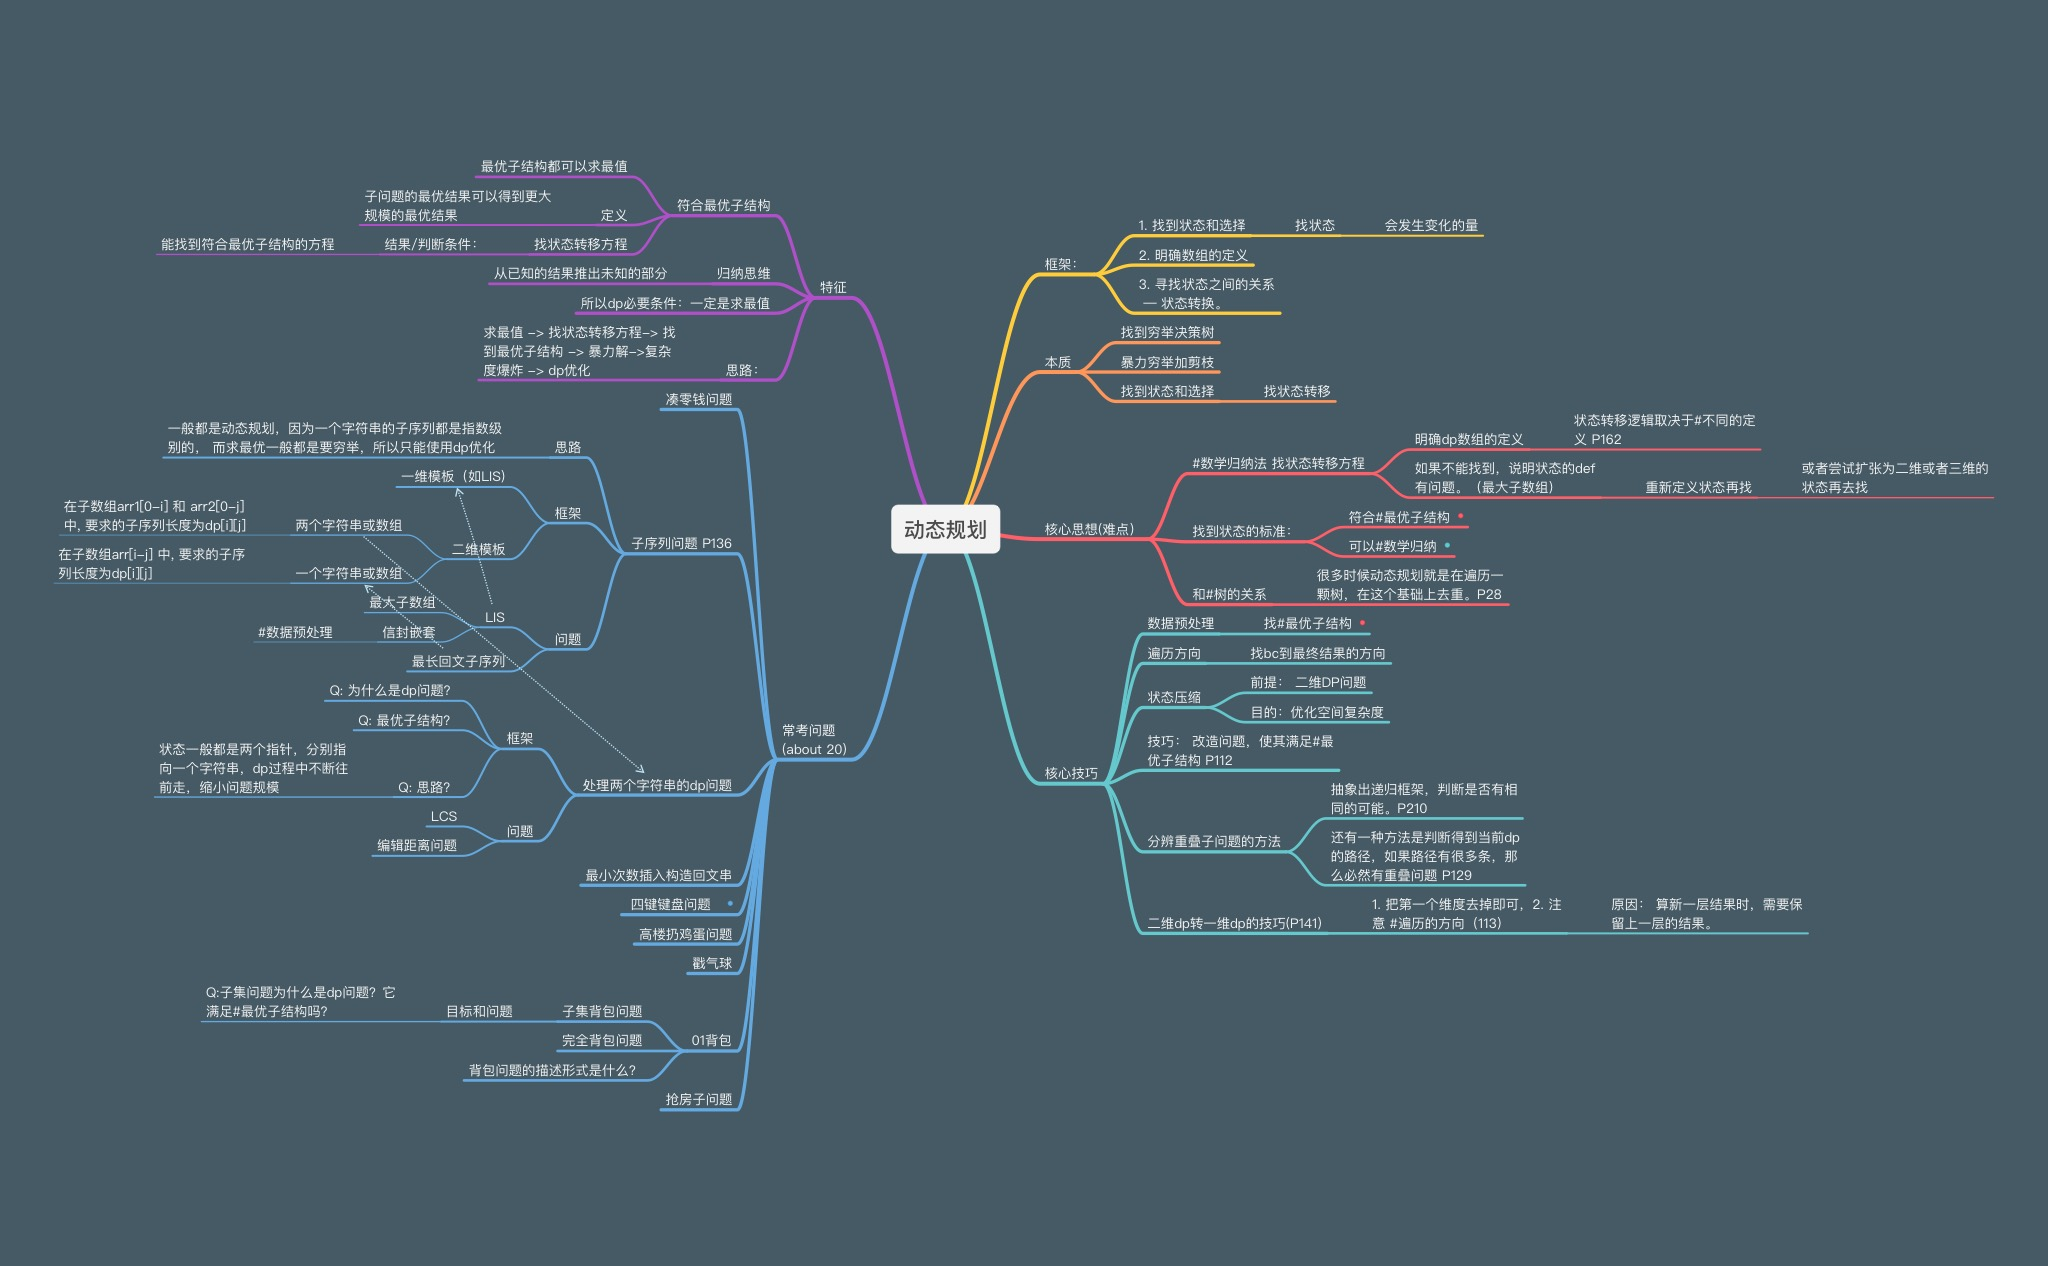
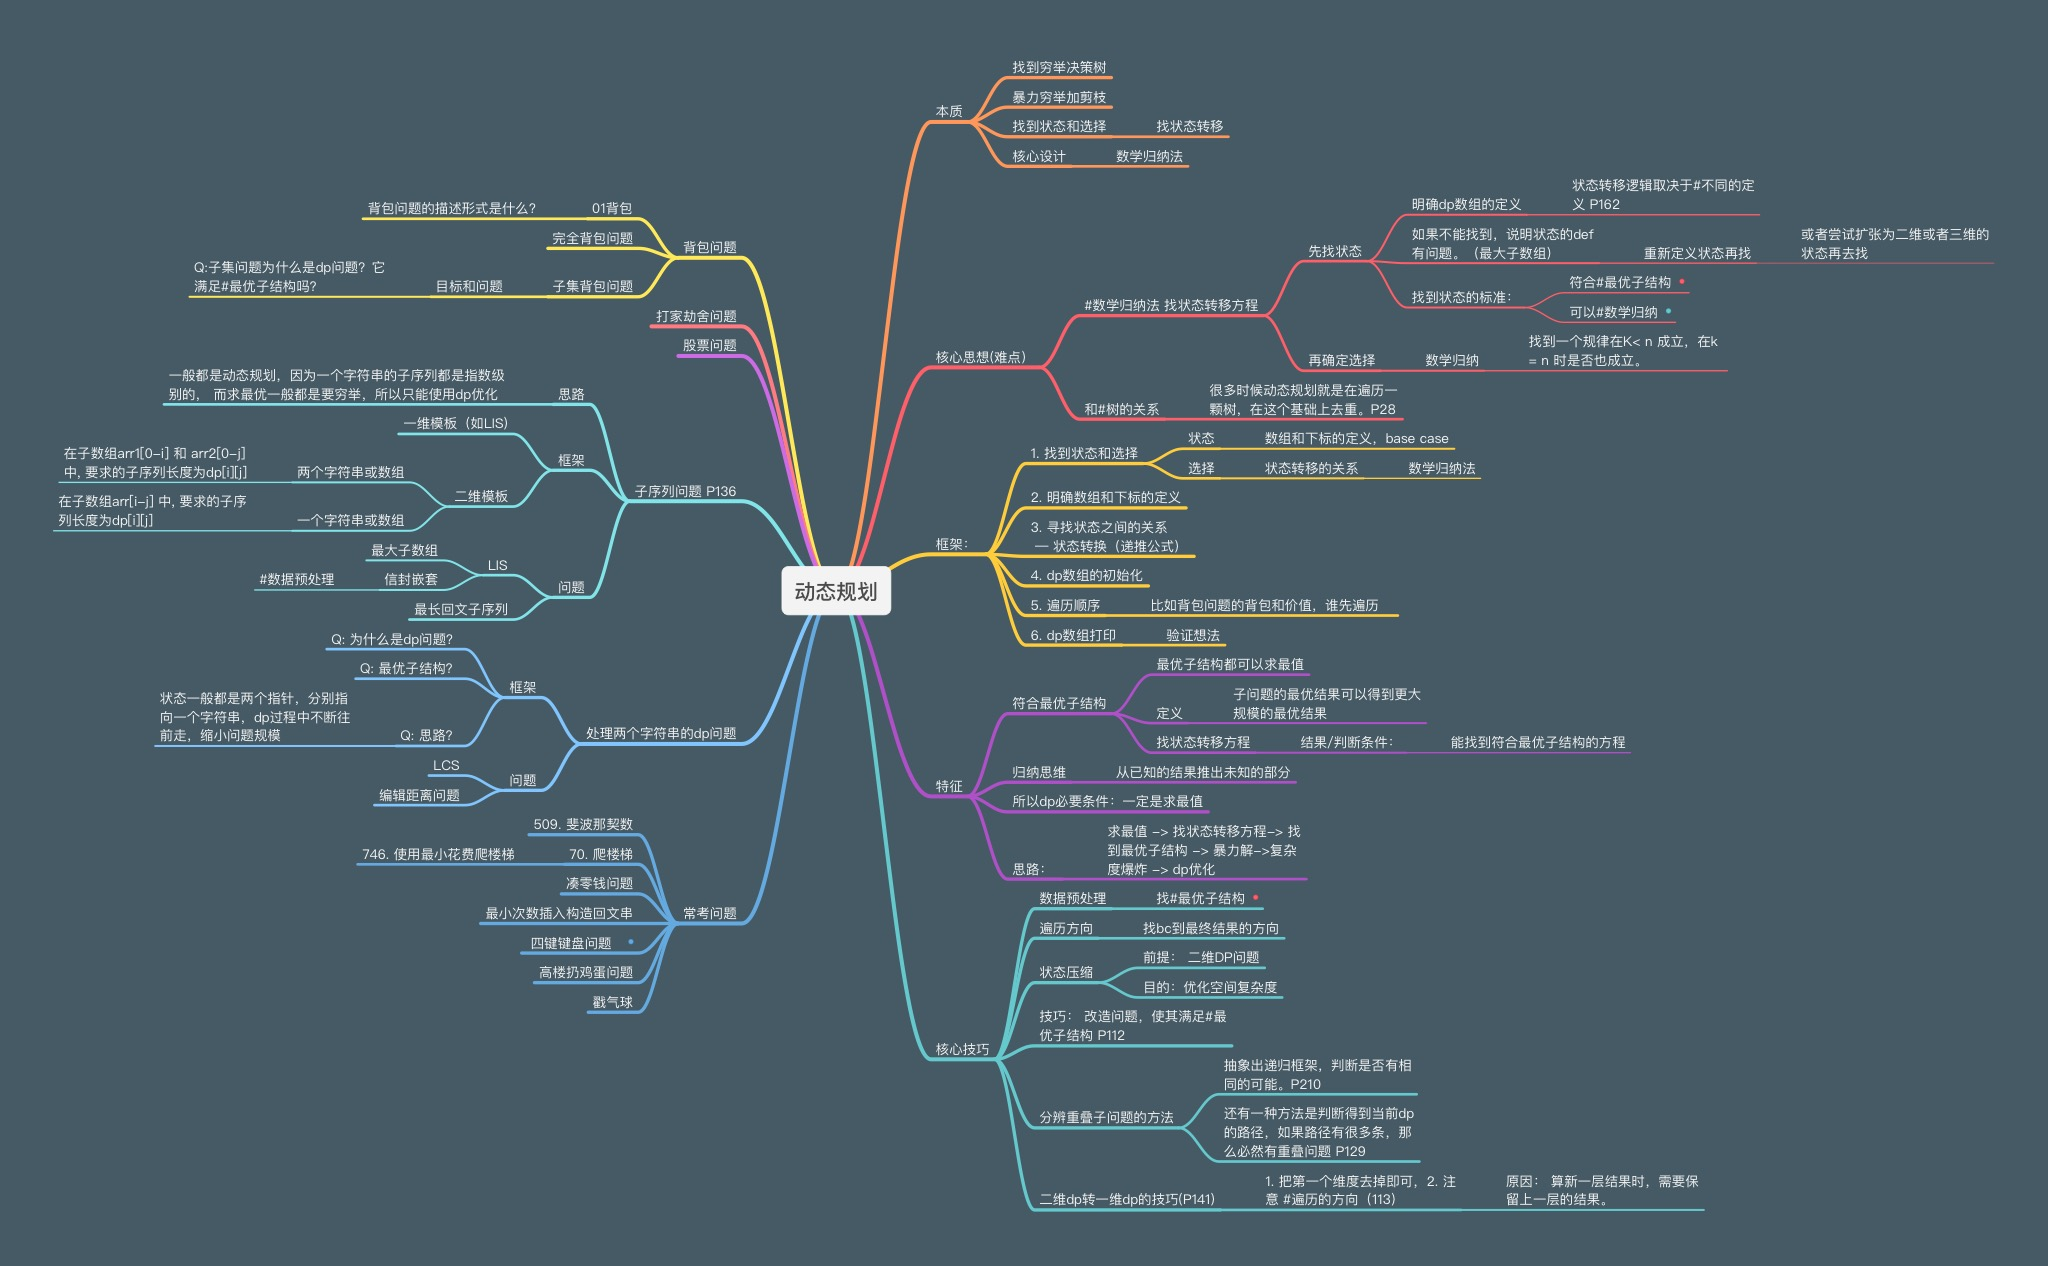
dp d1

diff --git a/Questions/DynamicProgramming/746. Min Cost Climbing Stairs.md b/Questions/DynamicProgramming/746. Min Cost Climbing Stairs.md
@@ -1,0 +1,52 @@
+---
+title: 746. Min Cost Climbing Stairs
+date: 2023/05/27
+author: Runming
+type: 题解
+---
+
+# [Min Cost Climbing Stairs - LeetCode](https://leetcode.com/problems/min-cost-climbing-stairs/description/)
+## Tag
+#dp
+
+## 审题（关键词） 
+爬楼梯，top，需要cost，求最小cost，可走一步或者两步
+
+## 初始思路  
+- 求解最少，需要遍历所有的路径，但是有很多重复计算，可以用dp来解决：
+1. dp[i]的定义：到达第i台阶所花费的最少体力为dp[i]。
+2. dp状态转移： 可以有两个途径得到dp[i]，一个是dp[i-1] 一个是dp[i-2]。
+  - 所以是 min(dp[i - 1]+cost[i - 1], dp[i - 2] + cost[i - 2])
+3. dp数组如何初始化: 到0和1不需要cost
+   ```
+    dp[0] = 0;
+    dp[1] = 0;
+    ```
+4. 遍历顺序，左到右
+
+
+## 考点  
+
+## 解法 
+
+```java
+class Solution {
+    public int minCostClimbingStairs(int[] cost) {
+        // 求解最少，需要遍历所有的路径，但是有很多重复计算，可以用dp来解决：
+        // 1. dp定义： dp[i] 到达i的最短路径, 注意top是数组长度+1
+        int[] dp = new int[cost.length + 1];
+
+        // 3. 初始化：
+        dp[0] = 0;
+        dp[1] = 0;
+
+        // 2. dp状态转移： dp[i] = min(dp[i - 1]+cost[i - 1], dp[i - 2] + cost[i - 2])
+        for (int i = 2; i <= cost.length; i++) {
+            dp[i] = Math.min(dp[i - 1] + cost[i - 1], dp[i - 2] + cost[i - 2]);
+        }
+
+        return dp[cost.length];
+    }
+}
+```
+

diff --git a/Questions/DynamicProgramming/509. Fibonacci Number.md b/Questions/DynamicProgramming/509. Fibonacci Number.md
@@ -1,0 +1,69 @@
+---
+title: 509. Fibonacci Number
+date: 2023/05/26
+author: Runming
+type: 题解
+---
+
+# [Fibonacci Number - LeetCode](https://leetcode.com/problems/fibonacci-number/description/)
+## Tag
+#Fibonacci， #dp
+
+
+## 审题（关键词） 
+Fibonacci Number
+
+
+## 初始思路  
+1. 确定dp数组以及下标的含义
+   - dp[i]的定义为：第i个数的斐波那契数值是dp[i]
+
+2. 确定递推公式
+   - 状态转移方程 dp[i] = dp[i - 1] + dp[i - 2];
+
+3. dp数组如何初始化
+    ```
+    dp[0] = 0;
+    dp[1] = 1;
+    ```
+4. 确定遍历顺序
+    - 从递归公式dp[i] = dp[i - 1] + dp[i - 2];中可以看出，dp[i]是依赖 dp[i - 1] 和 dp[i - 2]，那么遍历的顺序一定是从前到后遍历的
+
+5. 举例推导dp数组
+    按照这个递推公式dp[i] = dp[i - 1] + dp[i - 2]，我们来推导一下，当N为10的时候，dp数组应该是如下的数列：
+    ```
+    0 1 1 2 3 5 8 13 21 34 55
+    ```
+
+
+## 考点  
+基本dp
+
+
+## 解法  
+```java
+class Solution {
+    public int fib(int n) {
+        // 1. 定义
+        int[] dp = new int[n + 1];
+        // 2. 初始化
+        if (n <= 1) {
+            return n;
+        }
+        dp[0] = 0;
+        dp[1] = 1;
+
+        // 3. 遍历：左到右
+        for (int i = 2; i <= n; i++) {
+            // 4. 状态转移方程：
+            dp[i] = dp[i - 1] + dp[i - 2];
+        }
+
+        // 5. 结果
+        return dp[n];
+    }
+}
+```
+
+## 难点
+递归的基本解题步骤

diff --git a/Questions/DynamicProgramming/70. Climbing Stairs.md b/Questions/DynamicProgramming/70. Climbing Stairs.md
@@ -1,0 +1,54 @@
+---
+title: 70. Climbing Stairs
+date: 2023/05/26
+author: Runming
+type: 题解
+---
+
+# [Climbing Stairs - LeetCode](https://leetcode.com/problems/climbing-stairs/description/)
+## Tag
+#dp
+
+
+## 审题（关键词） 
+爬楼梯，可以一次爬一步或者两步
+
+## 初始思路  
+1. 确定dp数组以及下标的含义
+   - dp[i]： 爬到第i层楼梯，有dp[i]种方法
+2. 确定递推公式
+   - 状态转移方程 dp[i] = dp[i - 1] + dp[i - 2]; 
+   - 一层楼梯可以从两步前走一步过来，也可以从一步前走一步过来
+3. 初始化
+   - dp[0] = 1,方便计算，n限定不可能为0
+   - dp[1] = 1
+   - dp[2] = 2
+   - 数学归纳：
+   - dp[3] = dp[1] + dp[2]
+4. 遍历顺序：
+   - 从前往后
+
+## 考点  
+dp
+
+## 解法  
+和[[70. Climbing Stairs]]一样，只是i=0不一样。
+```java
+class Solution {
+    public int climbStairs(int n) {
+        // 1. 状态：dp[i] 表示 第i层楼梯有几种方法可以达到
+        // 2. 选择：dp[i] = dp[i - 1] + dp[i - 2];
+        int[] dp = new int[n + 1];
+
+        dp[0] = 1;
+        dp[1] = 1;
+
+        for (int i = 2; i <= n; i++) {
+            dp[i] = dp[i - 1] + dp[i - 2];
+        }
+
+        return dp[n];
+
+    }
+}
+```
